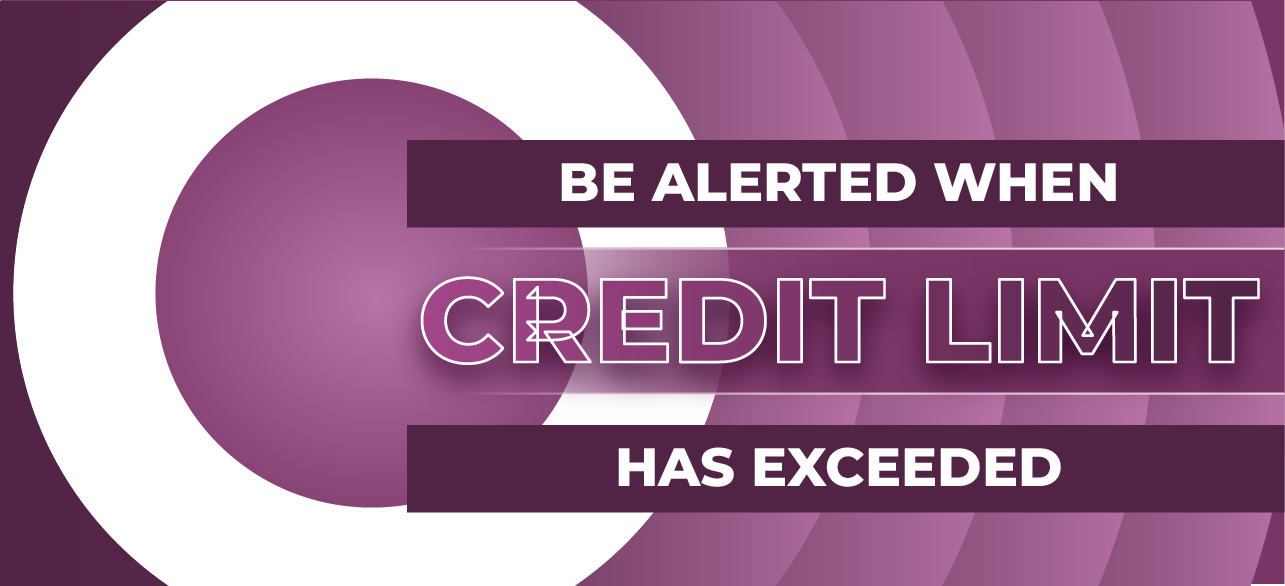
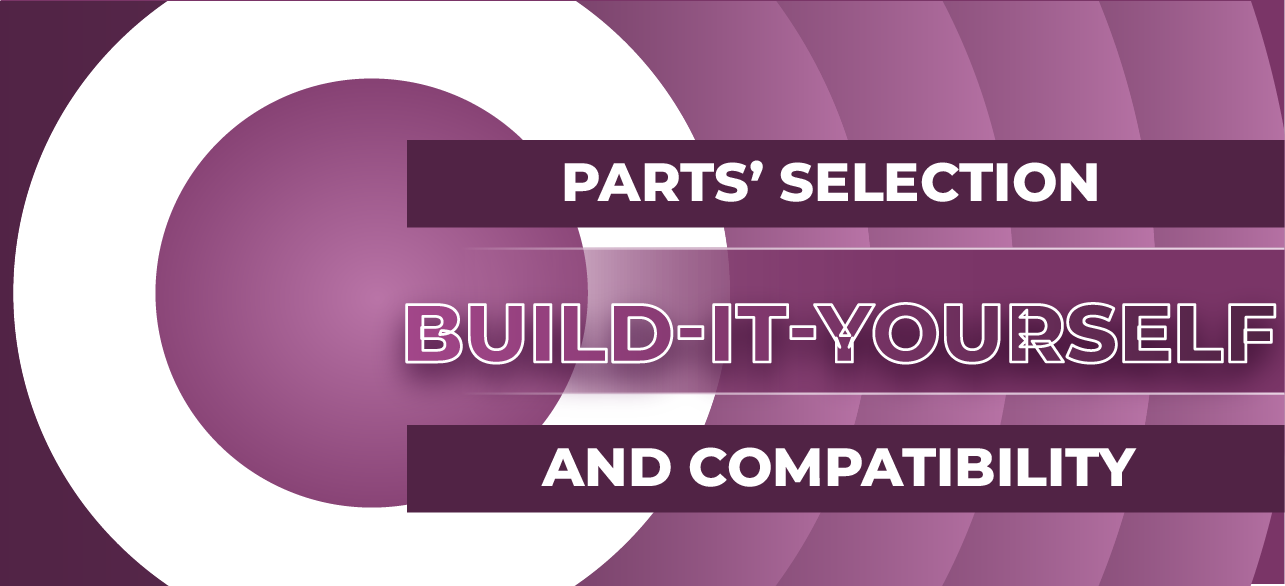
sdfsdf

Changed region(s): [[0.3113, 0.4608, 0.9961, 0.6451], [0.4358, 0.2765, 0.8716, 0.3686], [0.4047, 0.7679, 0.9027, 0.8294]]

diff --git a/7d_pos_test/static/description/index.html b/7d_pos_test/static/description/index.html
@@ -84,23 +84,23 @@
      <div
           style="background-color: #f6edf3; border-radius: 8px; padding: 20px; box-shadow: 0px 4px 8px rgba(0, 0, 0, 0.1); margin: 20px;">
           <img src="images/features-1.png" style="width: 90px; padding: 10px 0;" />
-          <h2 style="font-size: 20px; margin-bottom: 10px;"> Keeps Your Credit Sales under a Watch</h2>
-          <!-- <p>text1111111.</p> -->
+          <h2 style="font-size: 20px; margin-bottom: 10px;"> This module makes it easy for your customers to compare
+               components, find compatible parts and pay a combined price
+          </h2>
      </div>
      <div
           style="background-color: #f6edf3; border-radius: 8px; padding: 20px; box-shadow: 0px 4px 8px rgba(0, 0, 0, 0.1); margin: 20px;">
           <img src="images/features-2.png" style="width: 90px;padding: 10px 0;" />
-          <h2 style="font-size: 20px; margin-bottom: 10px;"> Ensures your sales team does not go over the management's
-               set credit limit for credit customers
-          </h2>
+          <h2 style="font-size: 20px; margin-bottom: 10px;">Safeguards Your Receivables </h2>
           <!-- <p>text22222.</p> -->
      </div>
      <div
           style=" grid-column: 1/3 ;background-color: #f6edf3; border-radius: 8px; padding: 20px; box-shadow: 0px 4px 8px rgba(0, 0, 0, 0.1); margin: 20px;">
           <img src="images/features-3.png" style="width: 90px;padding: 10px 0;" />
-          <h2 style="font-size: 20px; margin-bottom: 10px;"> Helps in getting your credit customers to clear off
-               previous dues in order to be within the limit
+          <h2 style="font-size: 20px; margin-bottom: 10px;"> Works for various industries like Automotives, Softwares,
+               Gaming PC's, Home/Work PC's, etc.
           </h2>
+          <!-- <p>text22222.</p> -->
      </div>
 </section>
 <!-- ------------------------------------------------------------------------------------------ -->
@@ -120,40 +120,11 @@ font-family:sans-serif;">
      <div
           style=" grid-column: 1/3 ;background-color: #ffffff; border-radius: 8px; padding: 20px; box-shadow: 0px 4px 8px rgba(0, 0, 0, 0.1); margin: 20px;">
           <h2 style="font-size: 20px; margin-bottom: 10px;">
-               No Configuration Required, just Install and Use
+               Just install and set the compatibility between products based on sequence of the parent product
           </h2>
           <!-- <p>text22222.</p> -->
      </div>
 </section>
-
-<!----------------------- SUGGESTED MODULES Section ------------------------------------------------>
-<!-- <div
-          style="display: flex; flex-wrap: wrap; align-items:stretch; justify-content: center; background-color: #ffffff; margin-bottom: 50px; padding-bottom: 50px;padding-top: 50px;">
-          <h2
-               style="display: block; width: 100%; text-align: center; font-size: 50px; color: #676767; font-weight: 700;">
-               SUGGESTED MODULES
-          </h2>
-          <p style="font-size: 18px; display: block; width: 100%; text-align: center; margin-top: 0;">Check out our
-               related modules</p>
-          <div
-               style="width: 25%; background-color: #ffffff; border-radius: 8px; padding: 20px; box-shadow: 0px 4px 8px rgba(0, 0, 0, 0.1); margin: 20px;">
-               <img src="images/Suggested 1 Stock_Type.png" style="width: 10vh; margin-bottom: 20px;" />
-               <h2 style="font-size: 25px; margin-bottom: 10px;">Stock_Type</h2>
-          </div>
-          <div
-               style="width: 25%; background-color: #ffffff; border-radius: 8px; padding: 20px; box-shadow: 0px 4px 8px rgba(0, 0, 0, 0.1); margin: 20px;">
-               <img src="images/Suggested 2 Re-Ordering.png" style="width: 10vh; margin-bottom: 20px;" />
-               <h2 style="font-size: 25px; margin-bottom: 10px;">Dynamic Reordering Rules
-               </h2>
-          </div>
-          <div
-               style="width: 25%; background-color: #ffffff; border-radius: 8px; padding: 20px; box-shadow: 0px 4px 8px rgba(0, 0, 0, 0.1); margin: 20px;">
-               <img src="images/Suggested 3 Min-Max.png" style="width: 10vh; margin-bottom: 20px;" />
-               <h2 style="font-size: 25px; margin-bottom: 10px;">Min-Max (Internal Transfers)
-               </h2>
-          </div>
-     </div> -->
-<!-- ------------------------------------------------------------------------------------------ -->
 
 <!-- Footer Section -->
 <section style="width: 100%;font-family:sans-serif;">
